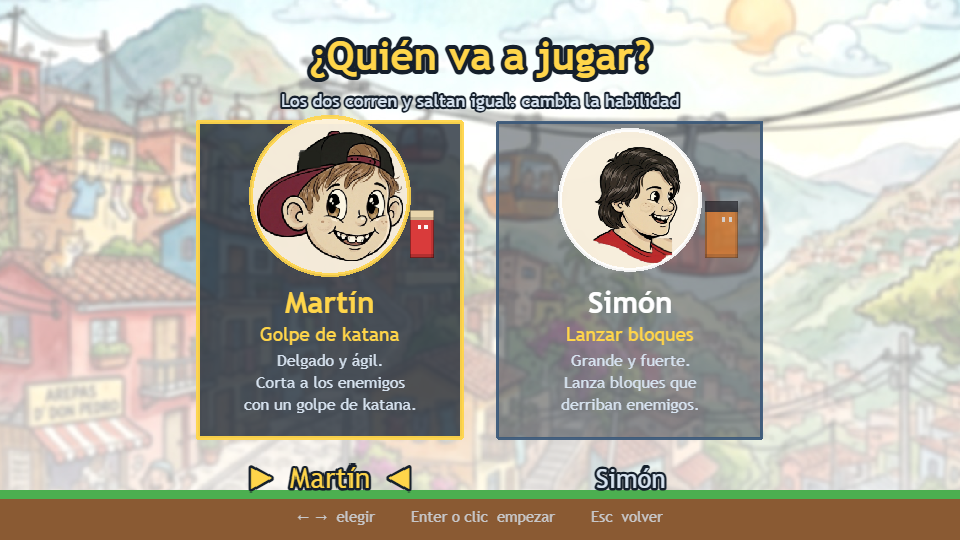
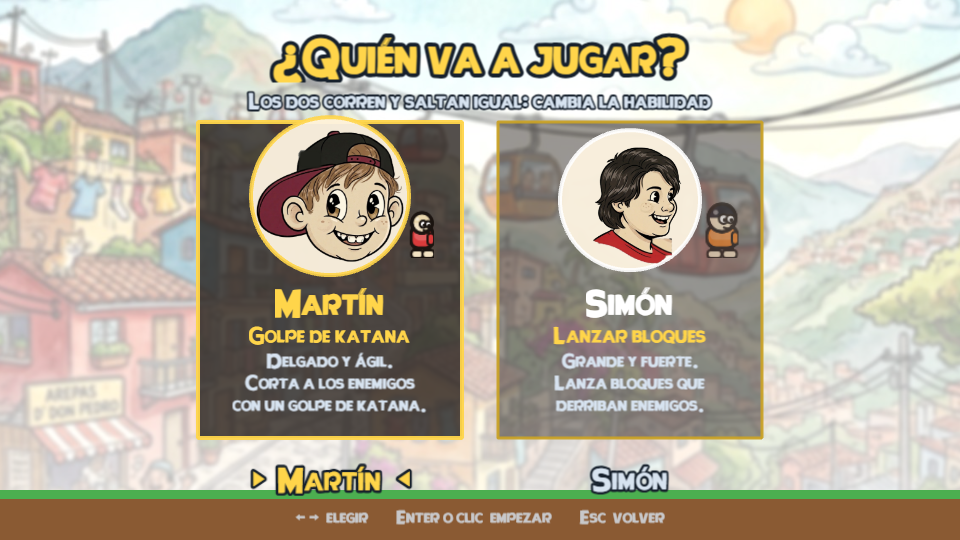
Migra los graficos a dibujo animado de los anos 30
Los rectangulos planos dejan paso al lenguaje visual que queriamos: contorno de
tinta negra grueso, formas redondeadas, ojos grandes y paleta de cremas, sepias
y colores apagados.

- Los personajes pasan de ser un rectangulo a un muneco con cabeza redonda,
  cuerpo, brazo y zapatones, con el pelo como casquete y una sonrisa.
- Los enemigos son bichos redondos con ojos enormes; el jefe, el mismo bicho a
  lo grande, con cuernos y cejas de enfado.
- El suelo lleva hierba ondulada y motas de tierra; las plataformas son tablones
  de madera vieja.

Un detalle que costo ver: la casilla de suelo no puede llevar marco completo.
Como el terreno se dibuja repitiendo esa casilla, el marco convertia el suelo en
una cuadricula. Ahora solo lleva linea arriba y el terreno se ve continuo.

Los pinceles del estilo (tintaRedonda, tintaCirculo, brillo) quedan en dibujo.js
para que lo que se anada despues hable el mismo idioma.

Dos pruebas mas que dejan de depender de la velocidad de la maquina: recoger
monedas ahora espera a que se recojan, y la medida del salto tiene margen largo.

diff --git a/src/sistemas/dibujo.js b/src/sistemas/dibujo.js
@@ -9,7 +9,7 @@
 // ---------------------------------------------------------------------------
 
 import Phaser from 'phaser';
-import { COLORES, FONDO, TEXTURAS } from '../config/estilo.js';
+import { COLORES, FONDO, TEXTURAS, TINTA } from '../config/estilo.js';
 import { PERSONAJES } from '../config/personajes.js';
 import { MUNDO } from '../config/ajustes.js';
 
@@ -26,26 +26,96 @@ function caja(g, x, y, ancho, alto, color, alpha = 1) {
   g.fillRect(x, y, ancho, alto);
 }
 
+// --- pinceles del estilo de los anos 30 -------------------------------------
+// Todo lleva contorno de tinta negra y formas redondeadas: es lo que separa un
+// dibujo animado antiguo de un juego de pixeles.
+
+function tintaRedonda(g, x, y, ancho, alto, radio, relleno, grosor = 3) {
+  g.fillStyle(relleno, 1);
+  g.fillRoundedRect(x, y, ancho, alto, radio);
+  g.lineStyle(grosor, TINTA, 1);
+  g.strokeRoundedRect(x, y, ancho, alto, radio);
+}
+
+function tintaCirculo(g, x, y, radio, relleno, grosor = 3) {
+  g.fillStyle(relleno, 1);
+  g.fillCircle(x, y, radio);
+  g.lineStyle(grosor, TINTA, 1);
+  g.strokeCircle(x, y, radio);
+}
+
+// Brillo tipo celuloide: una manchita clara arriba a la izquierda.
+function brillo(g, x, y, radio) {
+  g.fillStyle(0xffffff, 0.45);
+  g.fillCircle(x, y, radio);
+}
+
 // --- personajes -------------------------------------------------------------
 
 function generarPersonaje(escena, datos) {
   generar(escena, datos.textura, datos.ancho, datos.alto, (g) => {
-    const { ancho, alto, color, colorPelo, altoPelo } = datos;
-    // cuerpo
-    caja(g, 0, 0, ancho, alto, color);
-    // sombras para que no sea un rectangulo plano
-    caja(g, 0, alto - 4, ancho, 4, 0x000000, 0.18);
-    caja(g, ancho - 3, 0, 3, alto, 0x000000, 0.12);
-    // pelo: franja de arriba
-    caja(g, 0, 0, ancho, altoPelo, colorPelo);
-    caja(g, 0, altoPelo - 2, ancho, 2, 0x000000, 0.15);
-    // ojos (el sprite se voltea segun hacia donde mira)
-    const ojoY = altoPelo + 5;
-    caja(g, ancho - 9, ojoY, 3, 4, 0xffffff, 0.95);
-    caja(g, ancho - 15, ojoY, 3, 4, 0xffffff, 0.95);
-    // contorno
-    g.lineStyle(1, 0x000000, 0.35);
-    g.strokeRect(0.5, 0.5, ancho - 1, alto - 1);
+    const { ancho, alto, color, colorPelo } = datos;
+
+    const radioCabeza = ancho * 0.42;
+    const centroCabeza = radioCabeza + 3;
+    const cuelloY = centroCabeza + radioCabeza - 2;
+    const altoCuerpo = alto - cuelloY - 5;
+
+    // piernas, un poco separadas
+    const anchoPierna = ancho * 0.26;
+    tintaRedonda(g, ancho * 0.16, alto - 11, anchoPierna, 10, 4, COLORES.tinta, 2);
+    tintaRedonda(g, ancho * 0.58, alto - 11, anchoPierna, 10, 4, COLORES.tinta, 2);
+    // zapatones, que son la marca de la epoca
+    tintaRedonda(g, ancho * 0.06, alto - 7, anchoPierna + 5, 7, 3, COLORES.crema, 2);
+    tintaRedonda(g, ancho * 0.52, alto - 7, anchoPierna + 5, 7, 3, COLORES.crema, 2);
+
+    // cuerpo redondeado
+    tintaRedonda(g, 1, cuelloY - 4, ancho - 2, altoCuerpo, ancho * 0.3, color);
+    // peto mas claro, para que no sea una mancha plana
+    g.fillStyle(0xffffff, 0.18);
+    g.fillRoundedRect(4, cuelloY - 1, ancho - 8, altoCuerpo * 0.5, 5);
+
+    // brazo asomando por delante
+    tintaRedonda(g, ancho - 6, cuelloY + 2, 6, altoCuerpo * 0.55, 3, color, 2);
+
+    // cabeza
+    tintaCirculo(g, ancho / 2, centroCabeza, radioCabeza, COLORES.crema);
+    // pelo, como un casquete
+    g.fillStyle(colorPelo, 1);
+    g.slice(
+      ancho / 2,
+      centroCabeza,
+      radioCabeza,
+      Phaser.Math.DegToRad(180),
+      Phaser.Math.DegToRad(360),
+      false,
+    );
+    g.fillPath();
+    g.lineStyle(3, TINTA, 1);
+    g.strokeCircle(ancho / 2, centroCabeza, radioCabeza);
+
+    // ojos grandes de dibujo antiguo (mira a la derecha)
+    const ojoY = centroCabeza + 1;
+    tintaCirculo(g, ancho / 2 + radioCabeza * 0.12, ojoY, radioCabeza * 0.34, 0xffffff, 2);
+    tintaCirculo(g, ancho / 2 + radioCabeza * 0.62, ojoY, radioCabeza * 0.3, 0xffffff, 2);
+    g.fillStyle(TINTA, 1);
+    g.fillCircle(ancho / 2 + radioCabeza * 0.22, ojoY + 1, radioCabeza * 0.16);
+    g.fillCircle(ancho / 2 + radioCabeza * 0.68, ojoY + 1, radioCabeza * 0.14);
+
+    // sonrisa
+    g.lineStyle(2, TINTA, 1);
+    g.beginPath();
+    g.arc(
+      ancho / 2 + radioCabeza * 0.35,
+      centroCabeza + radioCabeza * 0.35,
+      radioCabeza * 0.4,
+      Phaser.Math.DegToRad(20),
+      Phaser.Math.DegToRad(130),
+      false,
+    );
+    g.strokePath();
+
+    brillo(g, ancho / 2 - radioCabeza * 0.45, centroCabeza - radioCabeza * 0.4, radioCabeza * 0.18);
   });
 }
 
@@ -54,34 +124,47 @@ function generarPersonaje(escena, datos) {
 export function generarTexturas(escena) {
   const c = MUNDO.casilla;
 
-  // suelo solido: tierra con hierba arriba
+  // suelo: tierra con una mata de hierba arriba, con contorno de tinta
   generar(escena, TEXTURAS.suelo, c, c, (g) => {
     caja(g, 0, 0, c, c, COLORES.tierra);
-    caja(g, 0, 0, c, 7, COLORES.hierba);
-    caja(g, 0, 7, c, 3, COLORES.hierbaOscura);
-    caja(g, 0, c - 3, c, 3, COLORES.tierraOscura);
-    g.lineStyle(1, 0x000000, 0.18);
-    g.strokeRect(0.5, 0.5, c - 1, c - 1);
+    // hierba ondulada
+    g.fillStyle(COLORES.hierba, 1);
+    g.fillRect(0, 0, c, 9);
+    g.fillCircle(8, 9, 4.5);
+    g.fillCircle(24, 9, 4);
+    g.fillStyle(COLORES.hierbaOscura, 1);
+    g.fillRect(0, 8, c, 2.5);
+    // motas de tierra
+    g.fillStyle(COLORES.tierraOscura, 0.5);
+    g.fillCircle(8, 20, 2.5);
+    g.fillCircle(23, 26, 2);
+    // solo una linea arriba: el suelo se dibuja repitiendo esta casilla, y un
+    // marco completo convertiria el terreno en una cuadricula
+    g.lineStyle(2.5, TINTA, 0.9);
+    g.beginPath();
+    g.moveTo(0, 1.2);
+    g.lineTo(c, 1.2);
+    g.strokePath();
   });
 
-  // tierra: igual que el suelo pero sin hierba (para las capas de debajo)
+  // tierra: las capas de debajo, sin hierba
   generar(escena, TEXTURAS.tierra, c, c, (g) => {
     caja(g, 0, 0, c, c, COLORES.tierra);
-    caja(g, 0, 0, c, 3, COLORES.tierraOscura);
-    caja(g, 0, c - 3, c, 3, COLORES.tierraOscura);
-    caja(g, 6, 10, 7, 5, COLORES.tierraOscura, 0.5);
-    caja(g, 19, 20, 8, 5, COLORES.tierraOscura, 0.5);
-    g.lineStyle(1, 0x000000, 0.12);
-    g.strokeRect(0.5, 0.5, c - 1, c - 1);
+    g.fillStyle(COLORES.tierraOscura, 0.45);
+    g.fillCircle(9, 11, 3);
+    g.fillCircle(22, 21, 2.6);
+    g.fillCircle(15, 28, 2);
+    g.fillCircle(27, 8, 2.2);
   });
 
-  // plataforma que se atraviesa desde abajo (mas fina)
+  // plataforma: un tablon de madera vieja
   generar(escena, TEXTURAS.plataforma, c, 12, (g) => {
-    caja(g, 0, 0, c, 12, COLORES.plataforma);
-    caja(g, 0, 0, c, 3, 0xffffff, 0.25);
-    caja(g, 0, 9, c, 3, COLORES.plataformaBorde);
-    g.lineStyle(1, 0x000000, 0.25);
-    g.strokeRect(0.5, 0.5, c - 1, 11);
+    tintaRedonda(g, 0.5, 0.5, c - 1, 11, 4, COLORES.plataforma, 2);
+    g.lineStyle(1.5, COLORES.plataformaBorde, 0.85);
+    g.beginPath();
+    g.moveTo(4, 7);
+    g.lineTo(c - 4, 7);
+    g.strokePath();
   });
 
   // bloque construido por Simon
@@ -145,44 +228,67 @@ export function generarTexturas(escena) {
     g.strokeRect(0.75, 10.75, 24.5, 9.5);
   });
 
-  // enemigo: bichito que camina
-  generar(escena, TEXTURAS.enemigo, 28, 22, (g) => {
-    caja(g, 0, 2, 28, 20, COLORES.enemigo);
-    caja(g, 0, 18, 28, 4, COLORES.enemigoOscuro);
-    caja(g, 4, 0, 20, 4, COLORES.enemigoOscuro);
-    caja(g, 5, 7, 6, 6, COLORES.enemigoOjo);
-    caja(g, 17, 7, 6, 6, COLORES.enemigoOjo);
-    caja(g, 7, 9, 3, 4, 0x1b1b22);
-    caja(g, 19, 9, 3, 4, 0x1b1b22);
-    g.lineStyle(1, 0x000000, 0.3);
-    g.strokeRect(0.5, 2.5, 27, 19);
+  // enemigo: un bichito redondo con ojos enormes
+  generar(escena, TEXTURAS.enemigo, 28, 24, (g) => {
+    // piececillos
+    tintaRedonda(g, 3, 18, 8, 6, 3, COLORES.enemigoOscuro, 2);
+    tintaRedonda(g, 17, 18, 8, 6, 3, COLORES.enemigoOscuro, 2);
+    // cuerpo
+    tintaCirculo(g, 14, 12, 11, COLORES.enemigo, 2.5);
+    // ojos
+    tintaCirculo(g, 10, 10, 5, 0xffffff, 2);
+    tintaCirculo(g, 20, 10, 4.4, 0xffffff, 2);
+    g.fillStyle(TINTA, 1);
+    g.fillCircle(11, 11, 2.4);
+    g.fillCircle(21, 11, 2.2);
+    // boquita
+    g.lineStyle(2, TINTA, 1);
+    g.beginPath();
+    g.arc(15, 16, 4, Phaser.Math.DegToRad(20), Phaser.Math.DegToRad(160), false);
+    g.strokePath();
+    brillo(g, 8, 6, 2);
   });
 
-  // el jefe: un bicho grande con cuernos (72 x 72)
+  // el jefe: el mismo bicho pero enorme, con cuernos y mala cara (72 x 72)
   const jefe = (colorCuerpo) => (g) => {
-    caja(g, 0, 14, 72, 58, colorCuerpo);
-    caja(g, 0, 62, 72, 10, COLORES.jefeOscuro);
-    caja(g, 5, 9, 62, 7, COLORES.jefeOscuro);
+    // patas
+    tintaRedonda(g, 8, 58, 18, 14, 6, COLORES.jefeOscuro, 3);
+    tintaRedonda(g, 46, 58, 18, 14, 6, COLORES.jefeOscuro, 3);
     // cuernos
     g.fillStyle(COLORES.jefeCuerno, 1);
-    g.fillTriangle(6, 15, 22, 15, 12, 0);
-    g.fillTriangle(50, 15, 66, 15, 60, 0);
-    // ojos grandes y cejas de enfadado
-    caja(g, 12, 26, 20, 18, COLORES.enemigoOjo);
-    caja(g, 40, 26, 20, 18, COLORES.enemigoOjo);
-    caja(g, 19, 32, 9, 12, 0x1b1b22);
-    caja(g, 47, 32, 9, 12, 0x1b1b22);
-    caja(g, 10, 20, 24, 6, COLORES.jefeOscuro);
-    caja(g, 38, 20, 24, 6, COLORES.jefeOscuro);
+    g.fillTriangle(8, 22, 26, 20, 13, 1);
+    g.fillTriangle(64, 22, 46, 20, 59, 1);
+    g.lineStyle(3, TINTA, 1);
+    g.strokeTriangle(8, 22, 26, 20, 13, 1);
+    g.strokeTriangle(64, 22, 46, 20, 59, 1);
+    // cuerpo
+    tintaCirculo(g, 36, 38, 30, colorCuerpo, 3.5);
+    // cejas de enfado
+    g.lineStyle(4, TINTA, 1);
+    g.beginPath();
+    g.moveTo(14, 24);
+    g.lineTo(32, 31);
+    g.moveTo(58, 24);
+    g.lineTo(40, 31);
+    g.strokePath();
+    // ojos
+    tintaCirculo(g, 24, 38, 11, 0xffffff, 2.5);
+    tintaCirculo(g, 48, 38, 11, 0xffffff, 2.5);
+    g.fillStyle(TINTA, 1);
+    g.fillCircle(27, 39, 5);
+    g.fillCircle(51, 39, 5);
     // boca con dientes
-    caja(g, 22, 52, 28, 8, COLORES.jefeOscuro);
-    caja(g, 27, 52, 5, 8, 0xffffff);
-    caja(g, 40, 52, 5, 8, 0xffffff);
-    g.lineStyle(2, 0x000000, 0.35);
-    g.strokeRect(1, 15, 70, 56);
+    g.fillStyle(COLORES.jefeOscuro, 1);
+    g.fillRoundedRect(22, 52, 28, 10, 4);
+    g.lineStyle(2.5, TINTA, 1);
+    g.strokeRoundedRect(22, 52, 28, 10, 4);
+    g.fillStyle(0xffffff, 1);
+    g.fillRect(27, 52, 5, 5);
+    g.fillRect(40, 52, 5, 5);
+    brillo(g, 18, 22, 3.5);
   };
   generar(escena, TEXTURAS.jefe, 72, 72, jefe(COLORES.jefe));
-  generar(escena, TEXTURAS.jefeEnfadado, 72, 72, jefe(0xa63bbd));
+  generar(escena, TEXTURAS.jefeEnfadado, 72, 72, jefe(0xb583cc));
 
   // checkpoint: banderin apagado y encendido
   const banderin = (color) => (g) => {

diff --git a/src/config/estilo.js b/src/config/estilo.js
@@ -5,7 +5,19 @@
 // cargue imagenes con estas mismas claves: el resto del juego no se entera.
 // ---------------------------------------------------------------------------
 
+// Paleta de dibujo animado de los anos 30: tinta negra gruesa, cremas, sepias
+// y un rojo y un dorado apagados. Nada de colores de pantalla.
+export const TINTA = 0x1b1410;
+
 export const COLORES = {
+  tinta: TINTA,
+  crema: 0xf3e3c3,
+  cremaOscura: 0xd9c19a,
+  sepia: 0x8a6b4f,
+  sepiaOscuro: 0x5c4531,
+  rojoViejo: 0xc0392b,
+  doradoViejo: 0xd8b24a,
+
   cieloArriba: 0x4aa8e0,
   cieloAbajo: 0x9fd9f6,
   montana: 0x6f8fb0,
@@ -18,8 +30,8 @@ export const COLORES = {
   hierba: 0x4caf50,
   hierbaOscura: 0x3b8c3f,
 
-  plataforma: 0xc98f4e,
-  plataformaBorde: 0x8a5a33,
+  plataforma: 0xd9b57e,
+  plataformaBorde: 0x8a6b4f,
 
   bloque: 0xe0b060,
   bloqueBorde: 0x9c7430,
@@ -38,12 +50,12 @@ export const COLORES = {
   bloqueArmarClaro: 0xf4655f,
   bloqueArmarOscuro: 0xa8221f,
 
-  enemigo: 0x8e44ad,
-  enemigoOscuro: 0x5e2d75,
+  enemigo: 0x9b7bb5,
+  enemigoOscuro: 0x6b5184,
   enemigoOjo: 0xffffff,
 
-  jefe: 0x7b2d8f,
-  jefeOscuro: 0x4a1a5c,
+  jefe: 0x8e5fa8,
+  jefeOscuro: 0x5a3a6e,
   jefeCuerno: 0xf4d03f,
   jefeVida: 0xe74c3c,
   jefeVidaVacia: 0x3d5a7a,

diff --git a/CLAUDE.md b/CLAUDE.md
@@ -253,6 +253,16 @@ katana de Martin, y al final la **arena del jefe** con la meta detras.
 
 ## 10. Arte y licencias
 
+### Estilo
+
+**Dibujo animado de los anos 30**, con aire art deco: contorno de tinta negra
+grueso, formas redondeadas, ojos grandes, zapatones, y una paleta de cremas,
+sepias y colores apagados. Nada de pixel art.
+
+Los pinceles de ese estilo (`tintaRedonda`, `tintaCirculo`, `brillo`) viven en
+`src/sistemas/dibujo.js`, y las cajas de dialogo en `panelDeco`. Todo lo que se
+dibuje nuevo deberia usarlos, para que el juego hable un solo idioma visual.
+
 - Todo el arte es **100% original** o de paquetes con **licencia libre** (Kenney, CC0).
 - **Prohibido** usar personajes, sprites, disenos, tipografias o musica de marcas o
   franquicias conocidas.
@@ -366,6 +376,13 @@ baja.
   contra reloj las hacia fallar en maquinas lentas sin que el juego estuviese mal.
   (El entorno de pruebas dibuja por software, sin tarjeta grafica, y va a 20-40
   fotogramas por segundo; en un equipo normal el juego va suelto.)
+- **2026-09-22** — Los graficos dejan de ser rectangulos planos y pasan al estilo
+  de dibujo animado de los anos 30: contorno de tinta, formas redondeadas y
+  paleta apagada. Los personajes tienen cabeza, cuerpo y zapatones; los enemigos
+  y el jefe son bichos redondos con ojos grandes.
+- **2026-09-22** — La casilla de suelo **no lleva marco completo**, solo una linea
+  arriba: como el terreno se dibuja repitiendo esa casilla, un marco entero
+  convertia el suelo en una cuadricula.
 - **2026-09-22** — `vite.config.js` usa `base: './'` (rutas relativas). Es lo que
   permite que el juego funcione en una subcarpeta como
   `usuario.github.io/aventura-martin-simon/`.
